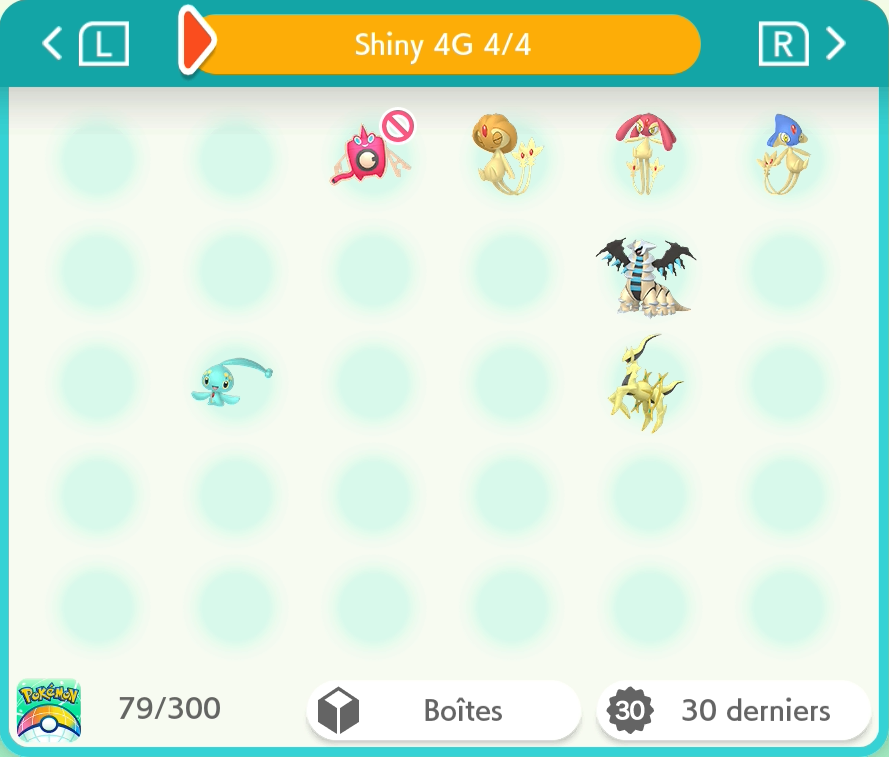
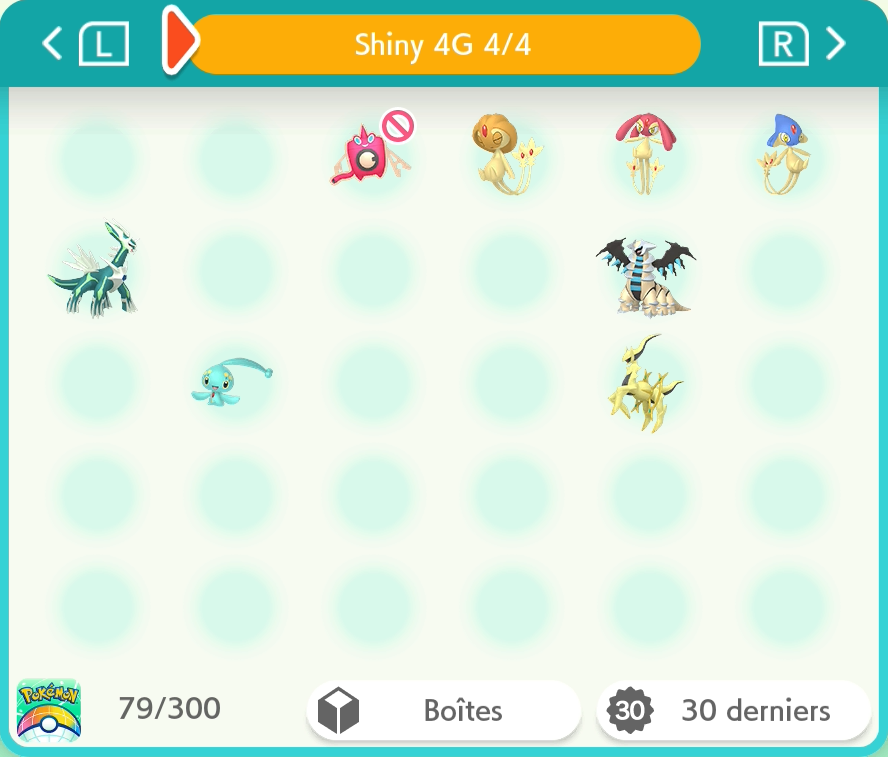
4G : Dialga

diff --git a/README.md b/README.md
@@ -2,15 +2,15 @@
 
 Pokémon-Elément-Sh -> <a href="https://www.pokemon-element-sh.fr/profil/karyno21" target="_blank">Karyno21</a>
 
-↓ Dernière Update le 23/10/2026 à 4h47 ↓
-### Dex 1-9G [303/1001] +42
+↓ Dernière Update le 23/10/2026 à 6h07 ↓
+### Dex 1-9G [304/1001] +43
 
 | Gen | Prog | Notes |
 |:--:|:--:|---|
 |1G|50/151|+6 : Artikodin, Électhor, Sulfura, Ptéra, Leveinard & Akwakwak|
 |2G|38/100|+6 : Celebi, Raikou, Entei, Suicune, Lugia & Ho-Oh|
 |3G|30/135|+8 : Spinda, Regirock, Regice, Registeel, Latias, Latios, Kyogre, Groudon & Jirachi|
-|4G|23/107|+3 : Créhelf, Créfollet & Créfadet|
+|4G|24/107|+4 : Créhelf, Créfollet, Créfadet & Dialga|
 |5G|31/155|+3 : Genesect (JP Event), Venipatte & Scobolide|
 |6G|30/71|+8 : Amagara, Dragmara, Ptyranidur, Volcanion (HOME), Diancie (JP Event), Lépidonille, Pérégrain & Prismillon (Floraison)|
 |7G|20/84|+4 : Type:0, Silvallié, Mandrillon & Sovkipou|
@@ -26,12 +26,12 @@ Pokémon-Elément-Sh -> <a href="https://www.pokemon-element-sh.fr/profil/karyno
 |Hisui|17/17|Complété|
 |Paldea|4/4|Complété|
 
-### Total [361/1059] +42
+### Total [362/1059] +43
 
 <details>
-  <summary>Bonus - Motif de Prismillon</summary>
+  <summary>Bonus - Motif de Prismillon [17/19] +17</summary>
 
-### Motif de Prismillon [17/19] +17
+### Motif de Prismillon 
 
 | Motif | Prog |
 |---|:--:|
